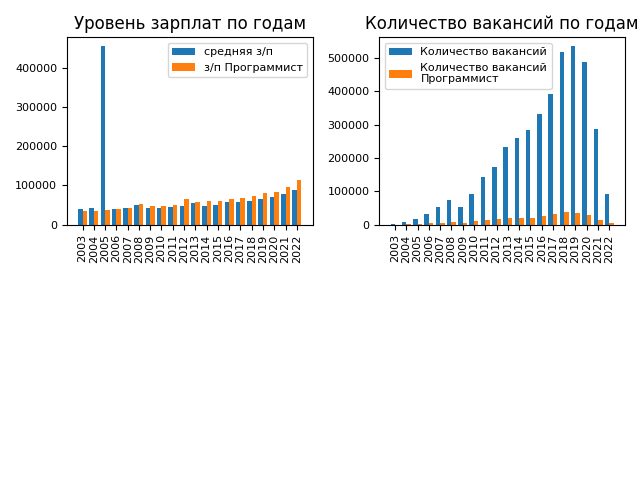
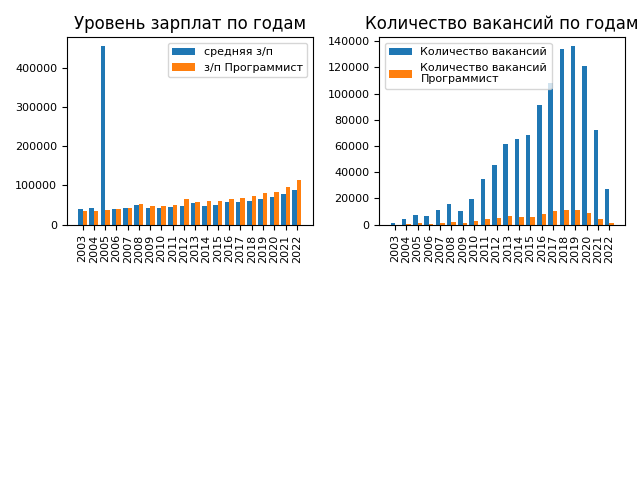
Minor fixes

diff --git a/3.4.2/pdf_template.html b/3.4.2/pdf_template.html
@@ -29,7 +29,7 @@
     </style>
 </head>
 <body>
-<h1>Аналитика по зарплатам и городам для профессии {{profession}}</h1>
+<h1>Аналитика по зарплатам и городам для профессии {{job_name}}</h1>
 <img src="C:\Users\Пользователь\PycharmProjects\Yakovlenko\3.4.2\graph.png">
 <h2>Статистика по годам</h2>
 <table>

diff --git a/3.4.2/3.4.2.py b/3.4.2/3.4.2.py
@@ -47,6 +47,8 @@ def get_year_statistics(file_name, job_name, dates):
                                           row["salary_to"],
                                           row["salary_currency"]),
                             axis=1)
+
+    df = df[df["salary"].notnull()]
     salaries_year = int(df["salary"].mean())
     vacancies_count_year = df.shape[0]
     job_dataframe = df[df["name"].str.contains(job_name)]
